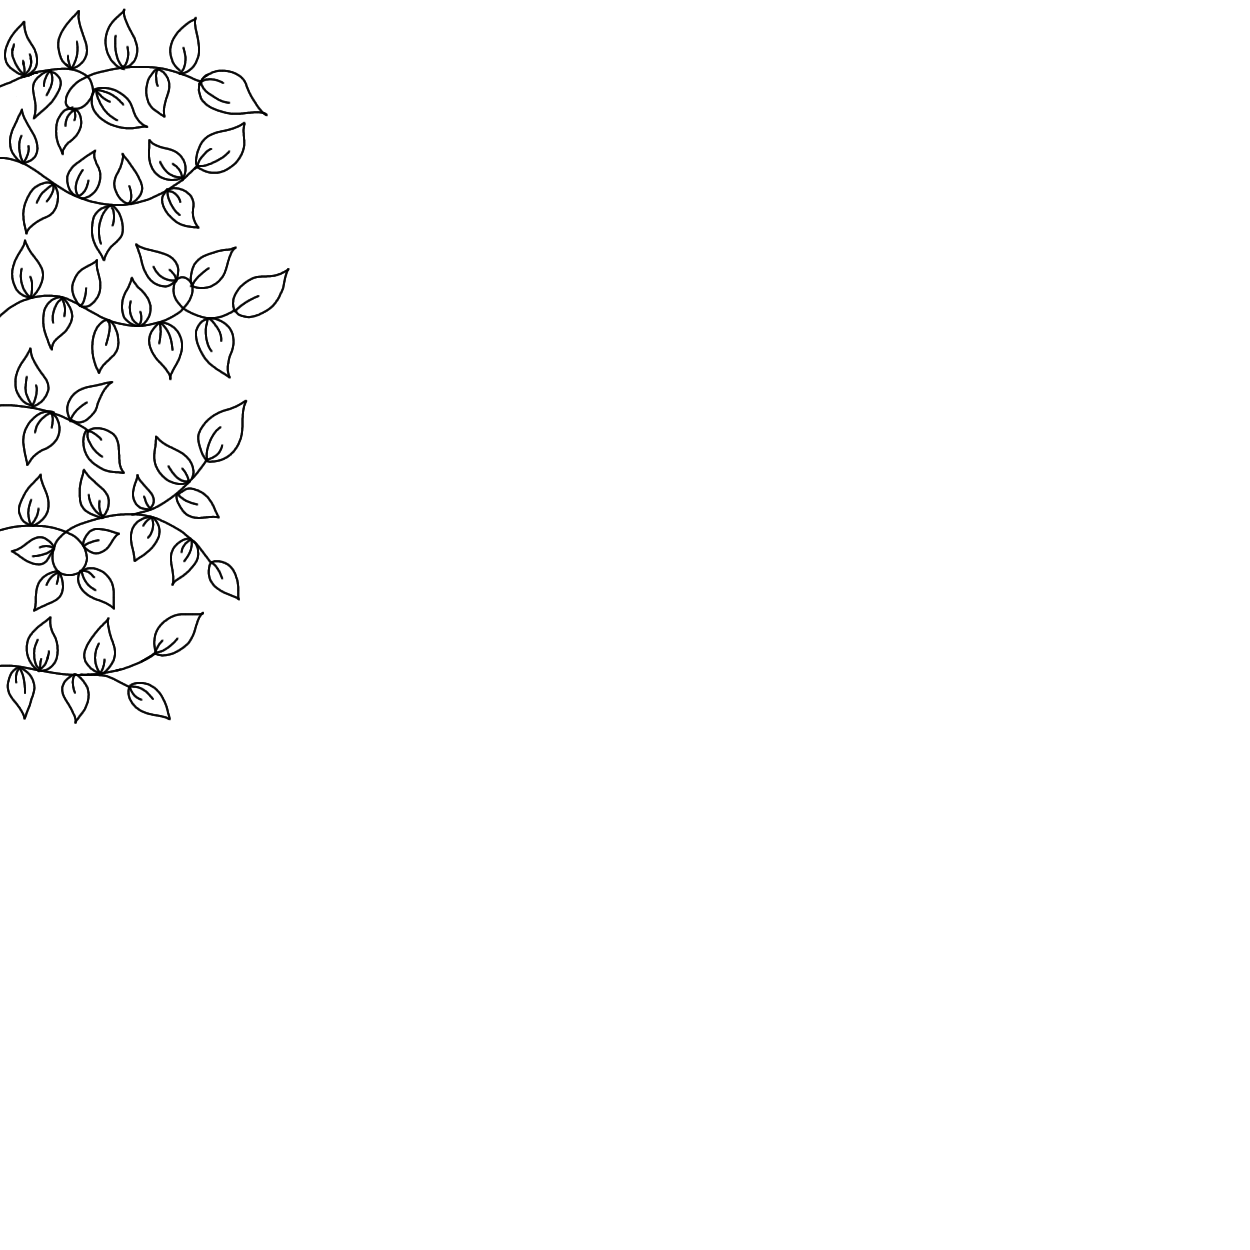
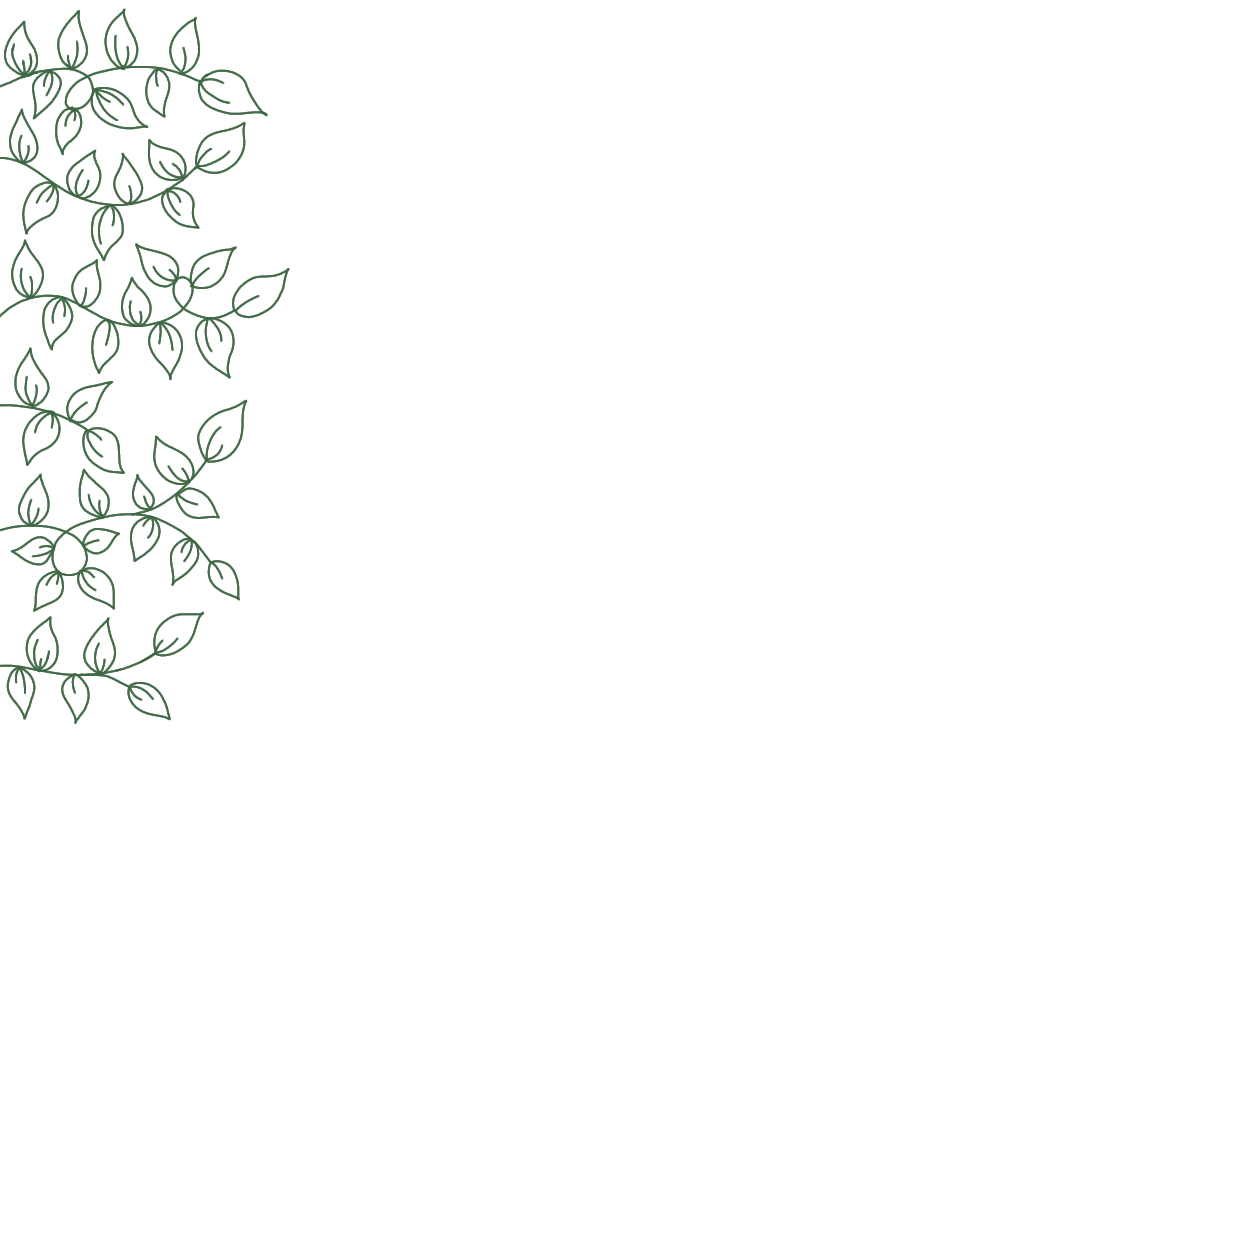
lots of changes

Changed region(s): [[0.0, 0.0, 0.2184, 0.5616], [0.1248, 0.4992, 0.156, 0.5304]]

diff --git a/css/styles.css b/css/styles.css
@@ -174,14 +174,14 @@ h1 {
 .corner.side-right {
   top: 0;
   right: 0;
-  width: 60rem;
+  width: 65rem;
   z-index: -1;
 }
 
 .corner.side-left {
   top: 0;
   left: 0;
-  width: 60rem;
+  width: 65rem;
   z-index: -1;
 }
 
@@ -206,6 +206,26 @@ h1 {
   opacity: 0.9;
 }
 
+.rsvp {
+  text-align: center;
+  padding: 4rem 2rem;
+}
+
+.rsvp-button {
+  display: inline-block;
+  margin-top: 2rem;
+  padding: 1rem 2.5rem;
+  font-family: 'Montserrat', sans-serif;
+  font-size: 2rem;
+  background-color: #F3D968; /* match your palette */
+  color: #061B01;
+  text-decoration: none;
+  border-radius: 10px;
+}
+
+.rsvp-button:hover {
+  opacity: 0.9;
+}
 
 footer {
   text-align: center;

diff --git a/rsvp.html b/rsvp.html
@@ -30,24 +30,20 @@
   <a href="rsvp.html">RSVP</a>
 </nav>
 
-<div class="corner">
+<div class="page-wrapper">
 <main>
-  <form>
-    <label>
-      Name:
-      <input type="text" required>
-    </label>
+  <section class="rsvp">
 
-    <label>
-      Attending?
-      <select>
-        <option>Yes</option>
-        <option>No</option>
-      </select>
-    </label>
+    <p>RSVP at Zola! This link will take you there.</p>
 
-    <button type="submit">Submit</button>
-  </form>
+    <a
+      href="https://www.zola.com/wedding/expertsinbirdlaw/rsvp"
+      target="_blank"
+      class="rsvp-button"
+    >
+      RSVP
+    </a>
+  </section>
 </main>
 
 <footer>

diff --git a/registry.html b/registry.html
@@ -33,7 +33,6 @@
 <main>
 
   <section class="registry">
-    <h1>Registry</h1>
 
     <p>
       Your presence is the greatest gift of all.
@@ -41,7 +40,7 @@
     </p>
 
     <a
-      href="https://www.zola.com/registry/expertsinbirdlaw"
+      href="https://www.zola.com/wedding/expertsinbirdlaw/registry"
       target="_blank"
       class="registry-button"
     >
